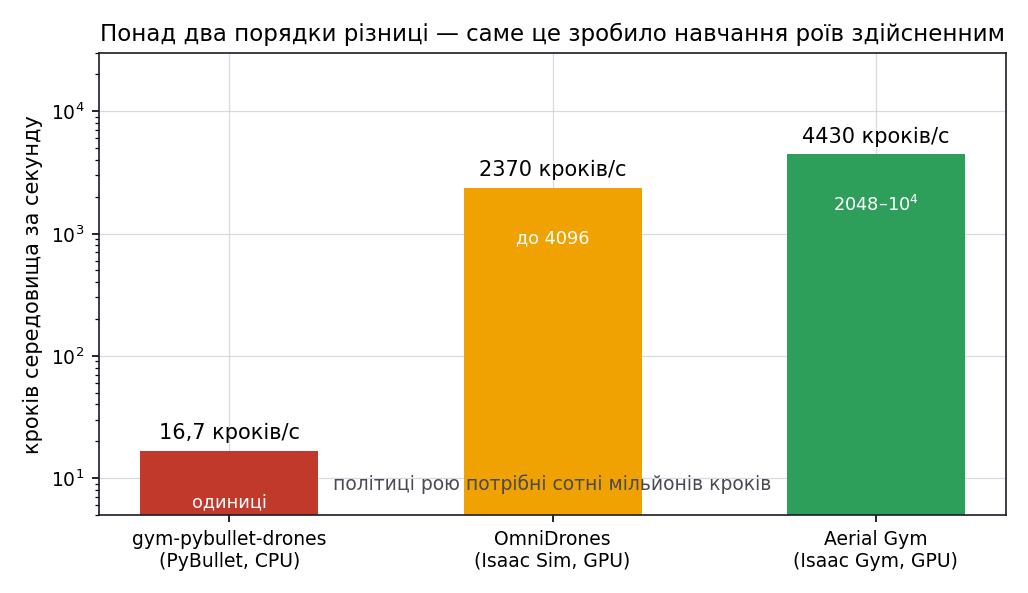
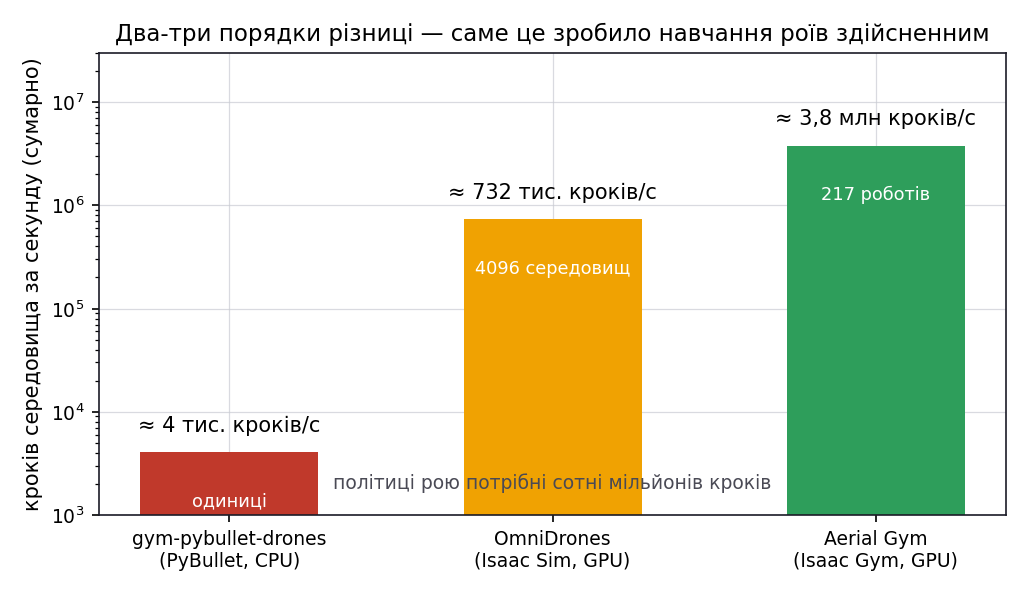
Аудит: числа за першоджерелами, термінологія, застарілий API
Пропускна здатність симуляторів — усі три числа були хибні. За Panerati
та ін. 2021 (табл. II) gym-pybullet-drones дає 16,8× реального часу при
фізиці 240 Гц, тобто ≈ 4 тис. кроків/с, а не «16,7 кроків/с»; OmniDrones
за власною табл. III — 196–732 тис. FPS, а не 1404–2370; Aerial Gym —
до 3,8 млн кроків/с сумарно, а не 4430. Виправлено таблицю, рисунок
m10-simulators і конспект лектора.

Марсохід (модуль 04) — жодне число таблиці цінностей не випливало з MDP
на рисунку. Розв'язано ітерацією за значеннями: V* = (4,10; 6,20; 10,00),
рівноймовірна політика — (−0,44; 0,37; 4,67). Заразом з'явилося числове
обґрунтування переходу при γ = 0,3: −0,93 проти нуля.

Модуль 05 — твердження «справедливість не пов'язана з Парето-оптимальністю
в жодному напрямку» хибне: за додатних віддач Парето-домінуюча політика
має більший добуток, тож максимум F лежить на межі Парето.

Модуль 07 — коефіцієнти 10,0·dt і 5,0 порівнювалися напрямки, хоча мають
різні одиниці. Тепер порівняння за секунду польоту.

Модуль 10 — код на застарілому gym із 4-кортежем step переведено на
Gymnasium (5-кортеж), як у лабораторних; додано визначення actions.

Термінологія: «відомий» → «ведений» (калька з рос. «ведомый»), «складальний
замок» → «карданний замок», «правило великого пальця» → «емпіричне правило»,
«крокова характеристика» → «перехідна», armed/disarmed → «мотори
заблоковані/розблоковані», micro–macro і hypernetwork отримали українські
відповідники.
[…]

diff --git a/lectures/07.md b/lectures/07.md
@@ -212,7 +212,7 @@ $$r_i^{(t)} = -\alpha_{\rm pos}\lVert p_i\rVert - \alpha_{\rm col}\mathbb{1}_{\r
 | $-\alpha_{f}\lVert f_i\rVert$ | сумарна тяга — економія енергії | $0{,}05\,dt$ |
 | $+\alpha_{\rm rot}R_{33}$ | утримання горизонту | $1{,}0\,dt$ |
 
-Два спостереження. **Розріджений штраф за зіткнення сам по собі не вчить уникати зіткнень**: сигнал приходить надто пізно й рідко, тому поряд обов'язково стоїть щільний штраф близькості. І вага штрафу близькості **вдвічі більша** за вагу самої події зіткнення — рій вчать тримати дистанцію, а не виживати після контакту.
+Два спостереження. **Розріджений штраф за зіткнення сам по собі не вчить уникати зіткнень**: сигнал приходить надто пізно й рідко, тому поряд обов'язково стоїть щільний штраф близькості. Порівнювати коефіцієнти 10,0 і 5,0 навпростець не можна: перший множиться на $dt$ і нараховується щокроку, другий — разова подія. За секунду польоту впритул до сусіда набігає $10{,}0 \cdot 1{,}0 = 10$, тобто вдвічі більше, ніж коштує одне зіткнення. Рій вчать тримати дистанцію, а не виживати після контакту.
 
 ### Абляція кодувальників сусідів
 
@@ -338,7 +338,7 @@ $$r_i^{(t)} = -\alpha_{\rm pos}\lVert p_i\rVert - \alpha_{\rm col}\mathbb{1}_{\r
 </Figure>
 
 
-Умова коректності називається **IGM** (*individual-global-max*): максимум централізованої оцінки має досягатися тоді й лише тоді, коли максимальна кожна індивідуальна утилітність. Тільки за неї децентралізоване виконання дає той самий результат, що й централізоване.
+Умова коректності називається **IGM** (*individual-global-max*): максимум централізованої оцінки має досягатися тоді й лише тоді, коли максимізовано кожну індивідуальну утилітність. Тільки за неї децентралізоване виконання дає той самий результат, що й централізоване.
 
 ### VDN: лінійна декомпозиція
 
@@ -370,7 +370,7 @@ $$\frac{\partial\, Q(h,z,a;\theta)}{\partial\, Q(h_i,a_i;\theta_i)} \;\ge\; 0 \q
 
 Монотонності досить для IGM: якщо агрегація не спадає за жодним аргументом, зростання власної утилітності ніколи не зменшує спільної оцінки. Лінійність VDN — **окремий випадок** монотонності.
 
-Монотонність забезпечують просто: усі ваги, крізь які проходять утилітності, роблять невід'ємними. Самі ваги видає окрема **hypernetwork**, що приймає централізовану інформацію: повний стан сцени, карту перешкод, положення всіх апаратів.
+Монотонність забезпечують просто: усі ваги, крізь які проходять утилітності, роблять невід'ємними. Самі ваги видає окрема гіпермережа (*hypernetwork*), що приймає централізовану інформацію: повний стан сцени, карту перешкод, положення всіх апаратів.
 
 ### Що саме вивчає змішувальна мережа
 
@@ -410,7 +410,7 @@ $$\frac{\partial\, Q(h,z,a;\theta)}{\partial\, Q(h_i,a_i;\theta_i)} \;\ge\; 0 \q
 | Обидві | лишатися в робочій зоні | експоненційний штраф за вихід за межі |
 | Обидві | не стикатися | сталий штраф за порушення фізичних меж |
 
-Реальний політ: 6 Crazyflie 2.1 — 3 розвідники, 2 переслідувачі, 1 утікач; локалізація UWB з 8 якорями, 3 конуси як перешкоди. Середня мінімальна відстань до цілі 0,4983 м проти 0,4616 м у симуляції.
+Реальний політ: 6 Crazyflie 2.1 — 3 розвідники, 2 переслідувачі, 1 утікач; локалізація UWB з 8 якорями, 3 конуси як перешкоди. Середня мінімальна відстань до цілі 0,50 м проти 0,46 м у симуляції.
 
 ## Частина 5 · Межі навчання: тридцять дронів без жодного RL
 
@@ -458,11 +458,11 @@ $$VO^{\tau}_{A|B}=\{\,v \;:\; \exists\, t\in[0,\tau],\;\; t\,v \in D(p_B-p_A,\; 
 
 | **Симулятор** | **Основа** | **Паралельних середовищ** | **Пропускна здатність** |
 |---|---|---|---|
-| [gym-pybullet-drones](https://github.com/utiasDSL/gym-pybullet-drones) | PyBullet, CPU | одиниці | ≈ 16,7 кроків/с |
-| [OmniDrones](https://omnidrones.readthedocs.io/) | Isaac Sim, GPU | до 4096 | 1404–2370 кроків/с |
-| [Aerial Gym](https://github.com/ntnu-arl/aerial_gym_simulator) | Isaac Gym, GPU | $2048$–$10^4$ | ≈ 4430 кроків/с |
+| [gym-pybullet-drones](https://github.com/utiasDSL/gym-pybullet-drones) | PyBullet, CPU | одиниці | ≈ 4 тис. кроків фізики/с (16,8× реального часу на ноутбуці) |
+| [OmniDrones](https://omnidrones.readthedocs.io/) | Isaac Sim, GPU | 1024–4096 | 196–732 тис. кроків/с (один агент), 115–310 тис. (четверо) |
+| [Aerial Gym](https://github.com/ntnu-arl/aerial_gym_simulator) | Isaac Gym, GPU | до 217 роботів у середовищі | до 3,8 млн кроків/с сумарно |
 
-Різниця між першим і третім рядками — **понад два порядки**. Саме вона, а не нові алгоритми, зробила навчання роєвих політик здійсненним: те, що на CPU рахувалося б місяцями, на GPU займає години.
+Різниця між CPU і GPU — **два-три порядки**. Саме вона, а не нові алгоритми, зробила навчання роєвих політик здійсненним: те, що на CPU рахувалося б місяцями, на GPU займає години. Числа мають сенс лише разом із конфігурацією: у GPU-рядках це сумарна пропускна здатність усіх паралельних середовищ, а не швидкість одного.
 
 OmniDrones додатково містить прямі порівняння MAPPO, HAPPO, MADDPG і QMIX на одних і тих самих задачах рою.
 
@@ -471,7 +471,7 @@ OmniDrones додатково містить прямі порівняння MAP
 | **Параметр** | **Значення** |
 |---|---|
 | Максимальний рій | **49 апаратів** одночасно |
-| Апарат | 92 мм по діагоналі, 27 г, ARM 168 МГц |
+| Апарат | 92 мм по діагоналі, 27 г без надбудов, ARM 168 МГц |
 | Радіоканал | три USB-передавачі 2,4 ГГц, кожен апарат постійно закріплений за одним із трьох |
 | Середня похибка позиціювання | менше 2 см |
 | Затримка системи для рою з 49 апаратів | 26 мс |

diff --git a/lectures/09.md b/lectures/09.md
@@ -49,7 +49,7 @@ outline: [2, 3]
 | **Силової установки** | відмова мотора, зламаний або розбалансований гвинт, збій регулятора обертів, просідання батареї | втрата тяги й моменту, часто необоротна |
 | **Зв'язку** | втрата сигналу з пульта, втрата зв'язку з наземною станцією, втрата сусіда в рої | апарат лишається без завдання або рій розпадається |
 
-Найпідступніший клас — **сенсорні**: апарат фізично справний, і саме тому продовжує виконувати команди, побудовані на хибних даних. Відмова мотора видно одразу; дрейф барометра на 0,9 м виглядає як нормальний політ.
+Найпідступніший клас — **сенсорні**: апарат фізично справний, і саме тому продовжує виконувати команди, побудовані на хибних даних. Відмову мотора видно одразу; дрейф барометра на 0,9 м виглядає як нормальний політ.
 
 ## Частина 2 · Виявлення відмови за нев'язкою
 
@@ -175,7 +175,7 @@ $$\eta_i \in [0,\;1]$$
 Найпростіше правило — «напруга нижча за поріг довше кількох секунд, отже заряд низький». Друге — рахувати залишкову ємність інтегруванням струму. **Обидва мають вади**, видні на рисунку.
 
 - **Напруга пов'язана зі станом розряду нелінійно**: похибка вимірювання ±30 мВ у середині кривої дає невизначеність заряду в десятки відсотків.
-- **Підрахунок ємності інтегруванням струму — процес розімкнений**: мале зміщення в вимірюванні струму накопичується в помилку, що росте з часом польоту.
+- **Підрахунок ємності інтегруванням струму — процес розімкнений**: мале зміщення у вимірюванні струму накопичується в помилку, що росте з часом польоту.
 
 Тому вводять третій показник — **стан заряду** (*state of charge*, SoC) — і оцінюють його фільтром разом із внутрішнім опором батареї.
 
@@ -240,8 +240,8 @@ $$S_{k+1} = S_k - \frac{I_k\,T_s}{Q_{\max}}$$
 
 | **Стан** | **Що означає** | **Куди може перейти** |
 |---|---|---|
-| Роззброєний | мотори заблоковані | у «озброєний» за командою і пройденим чек-листом |
-| Озброєний | мотори обертаються, апарат на землі | у «зліт» або назад у «роззброєний» |
+| Мотори заблоковані | мотори заблоковані | у «озброєний» за командою і пройденим чек-листом |
+| Мотори розблоковані (армування) | мотори обертаються, апарат на землі | у «зліт» або назад у «роззброєний» |
 | Політ за завданням | виконує місію | у «зависання», «повернення», «degraded» |
 | Зависання | утримує точку | у «політ», «повернення», «посадка» |
 | Повернення на базу | летить за збереженим маршрутом | у «посадка» |
@@ -259,7 +259,7 @@ $$S_{k+1} = S_k - \frac{I_k\,T_s}{Q_{\max}}$$
 Автомат станів стоїть **над** цим контуром: він не втручається в керування рухом, а перемикає, звідки береться завдання. Саме тому failsafe можна перевірити окремо від польотної динаміки.
 
 
-<Flow :nodes="[&quot;Озброєний на землі&quot;, &quot;Політ за завданням&quot;, &quot;Деградований режим після відмови&quot;, &quot;Керована посадка&quot;]" />
+<Flow :nodes="[&quot;Мотори розблоковані (армування) на землі&quot;, &quot;Політ за завданням&quot;, &quot;Деградований режим після відмови&quot;, &quot;Керована посадка&quot;]" />
 
 
 Події бувають **ручні** (команда оператора, перемикач режиму) і **автоматичні** (спрацював поріг, вичерпано заряд, виявлено відмову). Умови переходу мають бути записані явно: «перехід у degraded mode, якщо $\eta_i < 0{,}7$ довше 0,5 с».

diff --git a/lectures/01.md b/lectures/01.md
@@ -236,7 +236,7 @@ $$o_i = h\big(x_i,\ \{x_j : j \in \mathcal{N}_i\}\big), \qquad \mathcal{N}_i = \
 - **Інженерна перевага**: не потрібні ані адресація, ані синхронізація, ані спільна пам'ять.
 - **Ціна**: слід має жити рівно стільки, скільки триває задача. Надто стійкий слід консервує застарілі рішення, надто швидкоплинний не встигає накопичитися.
 
-### Micro–macro problem
+### Проблема мікро → макро (*micro–macro problem*)
 
 Центральна проблема проєктування рою: програмувати можна лише окремого робота (мікрорівень), а специфікується поведінка всього рою (макрорівень).
 
@@ -331,7 +331,7 @@ $$\{\pi_i\}_{i=1}^{N} \longmapsto B_{\text{macro}}$$
 - **Підводні рої** — робота там, де радіозв'язок практично недоступний, а отже топологія зв'язку принципово інша.
 - **Рої літаючих апаратів** — найдинамічніший напрям; типова дослідницька платформа — Crazyflie.
 
-**Стан справ із дронами.** Апарати вже комерціалізовані й дуже перспективні для дистанційного зондування. Стримує їх головно **відсутність правової рамки, яка дозволяла б автономний груповий політ**, а не технічні обмеження.
+**Стан справ із дронами.** Апарати вже комерціалізовані й дуже перспективні для дистанційного зондування. Стримує їх головно **відсутність нормативної бази, яка дозволяла б автономний груповий політ**, а не технічні обмеження.
 
 ## Частина 4 · Масштаб і його ціна
 
@@ -402,7 +402,7 @@ R= 55.0 m  edges= 36  lambda_2=1.8604
 </Figure>
 
 
-За $R = 35$ м апарат 4 лишається без сусідів, $\lambda_2 = 0$, рій розпадається на компоненти. За $R = 55$ м граф зв'язний, $\lambda_2 = 1{,}86$. Це та сама величина, якою в Модулі 03 оцінюють швидкість збіжності консенсусу.
+За $R = 35$ м апарат 4 лишається без сусідів, $\lambda_2 = 0$, рій розпадається на компоненти. За $R = 55$ м граф зв'язний, $\lambda_2 = 1{,}86$. Це та сама величина, якою у Модулі 02 оцінюють швидкість збіжності консенсусу.
 
 <ConnectivityLab />
 
@@ -524,7 +524,7 @@ R= 55.0 m  edges= 36  lambda_2=1.8604
 - Рій — це **замкнений контур** від місії до колективної поведінки, у якому жоден блок не бачить систему цілком.
 - Рій відрізняється від групи апаратів не кількістю, а **джерелом рішення**: кожен апарат вирішує сам за локальними даними.
 - П'ять властивостей — стійкість, гнучкість, масштабованість, адаптивність, відмовостійкість — **не виникають автоматично**.
-- **Micro–macro problem** лишається головною відкритою проблемою: програмуємо мікрорівень, специфікуємо макрорівень.
+- **Проблема мікро → макро (*micro–macro problem*)** лишається головною відкритою проблемою: програмуємо мікрорівень, специфікуємо макрорівень.
 - Масштабованість забезпечує **обмеження радіуса взаємодії**, а не потужніше залізо: $kN/2$ замість $N(N-1)/2$.
 - Реалістична шкала: Swarm-bots — 20 апаратів, Kilobot — тисяча, ARGoS — симуляція до 10 000.
 

diff --git a/lectures/04.md b/lectures/04.md
@@ -158,12 +158,12 @@ MDP марсохода: стани, ймовірності переходів і
 
 | **Величина при** $\gamma = 0{,}95$ | **Старт** | **Точка A** | **Точка B** |
 |---|---|---|---|
-| Цінність рівноймовірної політики | 2,99 | 7,35 | 10 |
-| Оптимальна цінність $V^*$ | 5,98 | 7,35 | 10 |
+| Цінність рівноймовірної політики | −0,44 | 0,37 | 4,67 |
+| Оптимальна цінність $V^*$ | 4,10 | 6,20 | 10,00 |
 
-Оптимальна політика при $\gamma = 0{,}95$ — рухатися ліворуч зі старту й далі праворуч: довгий шлях коштує кількох $-1$, але уникає п'ятдесятивідсоткового ризику втратити апарат.
+Оптимальна політика при $\gamma = 0{,}95$ — рухатися ліворуч зі старту й далі праворуч: $Q(\text{Старт},\text{ліворуч}) = 4{,}10$ проти $Q(\text{Старт},\text{праворуч}) = 0$. Довгий шлях коштує кількох $-1$, але уникає п'ятдесятивідсоткового ризику втратити апарат.
 
-При $\gamma = 0{,}3$ довгий маршрут знецінюється настільки, що оптимальним стає ризикований кидок праворуч. **Той самий апарат, та сама фізика, інша ціль навчання — інша поведінка.** Це найдешевша ілюстрація того, чому $\gamma$ не є параметром оптимізатора.
+При $\gamma = 0{,}3$ віддалена винагорода знецінюється настільки, що довгий маршрут дає вже $-0{,}93$ проти нуля за ризикований кидок праворуч, — і оптимальною стає саме ризикована дія. **Той самий апарат, та сама фізика, інша ціль навчання — інша поведінка.** Це найдешевша ілюстрація того, чому $\gamma$ не є параметром оптимізатора.
 
 ## Частина 2 · Наскрізний приклад: Crazyflie 2.1
 
@@ -176,7 +176,7 @@ MDP марсохода: стани, ймовірності переходів і
 | Максимальна тяга (4 мотори) | 60,8 г-сили = 0,596 Н, тобто 2,25 ваги |
 | Тяга при висінні | 27 / 60,8 = **0,44 від максимуму** |
 | Головний мікроконтролер | STM32F405, Cortex-M4, 168 МГц, 192 КБ ОЗП |
-| Час польоту | близько 7 хв |
+| Час польоту | близько 6 хв |
 
 Запас у 1,75 раза й визначає, наскільки різко апарат може маневрувати. Документація: [Bitcraze Crazyflie 2.1](https://www.bitcraze.io/products/crazyflie-2-1/).
 
@@ -211,7 +211,7 @@ MDP марсохода: стани, ймовірності переходів і
 | Кутові швидкості $p, q, r$ | 3 | рад/с | +0,11, −0,07, +0,02 |
 | **Разом** | **9** | | |
 
-Політика керує **одним числом** — нормованою колективною тягою $u \in [0,1]$ на частоті 50 Гц. Кутове положення тримає бортовий PID із прошивки: ми не вчимо дрон літати з нуля, ми вчимо його одному конкретному рішенню.
+Політика керує **одним числом** — нормованою сумарною тягою $u \in [0,1]$ на частоті 50 Гц. Кутове положення тримає бортовий PID із прошивки: ми не вчимо дрон літати з нуля, ми вчимо його одному конкретному рішенню.
 
 Читаємо приклад уголос: апарат на висоті 0,87 м, на 13 см нижче цілі, повільно опускається зі швидкістю 12 см/с. Політика має додати тяги.
 

diff --git a/lectures/03.md b/lectures/03.md
@@ -109,7 +109,7 @@ $$\mathbf{F}_i = -k_{\text{att}}\frac{\mathbf{p}_i - \mathbf{p}_{\text{goal}}}{\
 
 ### Leader–follower: найпростіша архітектура строю
 
-Кожен відомий утримує заданий зсув відносно лідера. Реалізація елементарна, і саме тому архітектура найпоширеніша.
+Кожен ведений утримує заданий зсув відносно лідера. Реалізація елементарна, і саме тому архітектура найпоширеніша.
 
 
 <Figure src="/figs/own/m03-leader-follower.png" alt="Траєкторії лідера й відомого для двох наборів коефіцієнтів">
@@ -260,7 +260,7 @@ $$e_i = x_{i-1} - x_i - \delta, \qquad E_i(s) = T(s)^{\,i-1} E_1(s)$$
 | $T(s)$ | коефіцієнт передачі похибки «попередник — наступний» |
 | $\lVert T \rVert_\infty$ | максимальне за частотою значення цього коефіцієнта |
 
-Рекурсія розкручується у степінь. Якщо $\lVert T \rVert_\infty > 1$, похибка множиться на кожній ланці. У показаній симуляції маневр лідера з піком 1,50 м перетворюється на 2,10 м у шостого відомого — і це лише сім апаратів.
+Рекурсія розкручується у степінь. Якщо $\lVert T \rVert_\infty > 1$, похибка множиться на кожній ланці. У показаній симуляції маневр лідера з піком 1,50 м перетворюється на 2,10 м у шостого веденого — і це лише сім апаратів.
 
 ### Підсилення більше за одиницю неминуче
 
@@ -294,7 +294,7 @@ $$\int_{0}^{\infty} \ln\bigl|T(j\omega)\bigr|\,\frac{d\omega}{\omega^{2}} \ \ge\
 Поширену інтуїцію варто спростувати окремо: **симетричне двонаправлене керування проблему не розв'язує** — підсилення так само зростає з довжиною колони.
 
 
-<Flow :nodes="[&quot;Лідер широкомовно передає свій стан&quot;, &quot;Відомий поєднує похибку до попередника й до лідера&quot;, &quot;Підсилення лишається меншим за одиницю&quot;]" />
+<Flow :nodes="[&quot;Лідер широкомовно передає свій стан&quot;, &quot;Ведений поєднує похибку до попередника й до лідера&quot;, &quot;Підсилення лишається меншим за одиницю&quot;]" />
 
 ## Частина 5 · Жорсткість і метрики
 
@@ -437,7 +437,7 @@ def rmse_rigid(P, Pstar):
 - **Displacement-закон** фіксує форму лише з точністю до перенесення й вимагає спільного курсового репера.
 - **Distance-закон** має нелінійну динаміку, лише локальні гарантії й паразитні дзеркальні рівноваги.
 - **Колона predecessor-following** принципово не масштабується — це доведене обмеження, а не дефект налаштування.
-- **Усі закони** налаштовуються вручну під конкретну геометрію й погано переносяться на змінну кількість апаратів і невідомі перешкоди.
+- **Усі закони** налаштовуються вручну під конкретну геометрію й погано переносяться на змінну кількість апаратів і неведені перешкоди.
 
 Саме останній пункт мотивує решту курсу: там, де закон вручну не виводиться, політику навчають.
 

diff --git a/lectures/02.md b/lectures/02.md
@@ -62,7 +62,7 @@ outline: [2, 3]
 | *Earth frame* | нерухома відносно землі | положення, висота, маршрут, задана точка |
 | *Body frame* | у центрі мас апарата | тяга гвинтів, моменти, покази IMU |
 
-Кривина Землі на масштабах польоту рою ігнорується. Обидві системи праві, вісь висоти традиційно спрямована вниз.
+Кривина Землі на масштабах польоту рою ігнорується. Обидві системи праві, вертикальна вісь традиційно спрямована вниз (висота дорівнює $-z$).
 
 ### Нахил і тяга: розрахунок із числами
 
@@ -298,7 +298,7 @@ $$\Delta p = \tfrac{1}{2}\,b\,t^2$$
 | $t$ | час автономного числення, с |
 | $\Delta p$ | накопичена похибка положення, м |
 
-Скромне зміщення $b = 0{,}05$ м/с² дає за 10 с помилку 2,5 м, за 30 с — 22 м, за 60 с — 90 м. Удвічі довше без корекції означає вчетверо гірше положення.
+Скромне зміщення $b = 0{,}05$ м/с² дає за 10 с помилку 2,5 м, за 30 с — 22,5 м, за 60 с — 90 м. Удвічі довше без корекції означає вчетверо гірше положення.
 
 **Для рою наслідок жорсткіший:** у кожного апарата власний дрейф, тому взаємні відстані розпливаються швидше, ніж абсолютні координати кожного.
 
@@ -330,9 +330,9 @@ $$K = \frac{\sigma_{\text{прогн}}^2}{\sigma_{\text{прогн}}^2 + \sigma_
 | **Крок** | **Обчислення** | **Результат** |
 |---|---|---|
 | Розбіжність | $11{,}20 - 10{,}00$ | 1,20 м |
-| Підсилення | $0{,}09 / (0{,}09 + 0{,}64)$ | 0,12 |
+| Підсилення | $0{,}09 / (0{,}09 + 0{,}64)$ | 0,123 |
 | Нова оцінка | $10{,}00 + 0{,}123 \cdot 1{,}20$ | 10,15 м |
-| Нова невизначеність | $0{,}30 \cdot \sqrt{1 - 0{,}12}$ | 0,28 м |
+| Нова невизначеність | $0{,}30 \cdot \sqrt{1 - 0{,}123}$ | 0,28 м |
 
 
 <Figure src="/figs/own/m02-kalman.png" alt="Один крок корекції фільтра Калмана як три розподіли">
@@ -416,7 +416,7 @@ $$\|\delta(t)\| \le \|\delta(0)\|\,e^{-\lambda_2 t}$$
 | Кільце | 5 | 1,382 | 3,618 | 3,3 с |
 | Повний | 10 | 5,000 | 5,000 | 0,9 с |
 
-Найдешевша інженерна дія в усій темі — **замкнути ланцюг у кільце**: одне додаткове ребро піднімає $\lambda_2$ з 0,382 до 1,382, а межа часу падає з 12,1 с до 3,3 с. Зірка й кільце коштують однаково, але кільце і швидше, і не має єдиної точки відмови.
+Найдешевша інженерна дія в усій темі — **замкнути ланцюг у кільце**: одне додаткове ребро піднімає $\lambda_2$ з 0,382 до 1,382, а межа часу падає з 12,1 с до 3,3 с. Кільце коштує на одне ребро дорожче за зірку, але воно і швидше, і не має єдиної точки відмови.
 
 ### Протокол консенсусу
 

diff --git a/lectures/06.md b/lectures/06.md
@@ -37,11 +37,11 @@ outline: [2, 3]
 - спроєктувати вектор спостереження й вектор дії для заданої задачі БПЛА;
 - підібрати ваги доданків винагороди за порядком величини й перевірити масштаб термінального штрафу;
 - пояснити, чому політика керує кутовими швидкостями, а не моторами напряму;
-- описати пайплайн sim-to-real і роль доменної рандомізації.
+- описати конвеєр *sim-to-real* і роль доменної рандомізації.
 
 ## Частина 1 · Вибір алгоритму під задачу
 
-Дерево вибору має три корені: планування шляху, навігація й керування. Вирішальний критерій на нижньому рівні — **тип простору дій**: дискретний набір команд чи неперервні керувальні сигнали.
+Дерево вибору має три гілки: планування шляху, навігація й керування. Вирішальний критерій на нижньому рівні — **тип простору дій**: дискретний набір команд чи неперервні керувальні сигнали.
 
 | **Група задач** | **Задача** | **Умова** | **Придатні алгоритми** |
 |---|---|---|---|
@@ -275,7 +275,7 @@ r(щойно стартував) = -0.57
 
 ## Частина 4 · Порівняння алгоритмів у польоті
 
-Пряме порівняння on-policy методів (SARSA, PPO, TRPO) з off-policy (Q-learning, DQN, DDPG) за кроковою характеристикою по кожній команді орієнтації. Цільова кутова швидкість — $\Omega^{*} = [2{,}20;\ -5{,}14;\ -1{,}81]$ рад/с.
+Пряме порівняння on-policy методів (SARSA, PPO, TRPO) з off-policy (Q-learning, DQN, DDPG) за перехідною характеристикою по кожній команді орієнтації. Цільова кутова швидкість — $\Omega^{*} = [2{,}20;\ -5{,}14;\ -1{,}81]$ рад/с.
 
 
 <Figure src="/figs/own/m06-rl-vs-pid.png" alt="Перехідна характеристика навчених політик проти ПІД-регулятора">
@@ -335,7 +335,7 @@ r(щойно стартував) = -0.57
 | Шум оцінки позиції | $\sigma$ = 2 – 10 см | 2 см — оптичний захват, 10 см — UWB |
 | Зовнішнє збурення | до 0,15 Н випадково | протяг, обдув від сусіда |
 
-**Правило великого пальця:** якщо політика тримається на всьому діапазоні рандомізації в симуляторі, реальний дрон опиняється десь усередині цього діапазону — і летить без донавчання.
+**Емпіричне правило:** якщо політика тримається на всьому діапазоні рандомізації в симуляторі, реальний дрон опиняється десь усередині цього діапазону — і летить без донавчання.
 
 ### Порядок перенесення на борт
 

diff --git a/lectures/08.md b/lectures/08.md
@@ -37,7 +37,7 @@ outline: [2, 3]
 - обчислити кількість компонент зв'язності та відносну зв'язність рою й відрізнити керований поділ від фрагментації;
 - спроєктувати вектор спостереження й винагороду для задачі покриття;
 - назвати сім метрик місії покриття з числовими порогами;
-- за логами розпізнати п'ять типових поломок роєвої політики.
+- за логами розпізнати шість типових поломок роєвої політики.
 
 ## Частина 1 · Що рій уже вміє
 
@@ -280,7 +280,7 @@ $$C(t)=\frac{\operatorname{rank}\big(L(t)\big)}{n-1}\in[0,1]$$
 | 6001 | 120,02 | ще в тій самій клітинці | 1 | 0,00 | $0{,}3\times1/6 = 0{,}05$ | **+0,05** |
 | 6002 | 120,04 | летить далі, клітинка стара | 0 | 0,00 | 0,00 | **0,00** |
 
-До цієї суми на кожному кроці додаються штрафи за різкість керування $-0{,}101$ і $-2{,}0\times$(близькість), якщо сусід ближче 1,0 м.
+До цієї суми на кожному кроці додаються штрафи за різкість керування $-0{,}10$ (сума за кутову швидкість, нахил і ривок дії) і $-2{,}0\times$(близькість), якщо сусід ближче 1,0 м.
 
 Підсумок за епізод при хорошому польоті: рій відкриває 360 клітинок × 0,7 особистої частини ≈ **252 очка**, розподілених між шістьма, плюс спільна частина. Штрафи за близькість забирають 5–8 % — це нормальна ціна безпеки.
 
@@ -408,7 +408,7 @@ for step in range(int(T / DT)):
 | **Рівень** | **Що вирішує** | **Темп** | **Хто виконує** |
 |---|---|---|---|
 | Планування місії | поділ на стадії, точки маршруту, повернення на зарядку | хвилини, часто офлайн | наземна станція або оператор |
-| Розподіл задач | яка зона чиї́й апарат | секунди | рій, розподілено |
+| Розподіл задач | який апарат відповідає за яку зону | секунди | рій, розподілено |
 | Локальне рішення | куди летіти наступні 1–2 с | 5–20 Гц | політика на борту |
 | Керування рухом | тяга й кутові швидкості | 50–500 Гц | бортовий контролер |
 

diff --git a/lectures/10.md b/lectures/10.md
@@ -31,7 +31,7 @@ outline: [2, 3]
 Після лекції ви зможете:
 
 - описати мінімальний інтерфейс багатоагентного середовища й прочитати опис простору дій і спостережень;
-- реалізувати мережу з `parameter sharing` і пояснити, коли це припущення коректне;
+- реалізувати мережу з *parameter sharing* і пояснити, коли це припущення коректне;
 - перетворити IDQN на VDN однією операцією й пояснити, що саме змінилося;
 - скласти чек-лист відтворюваного експерименту з дев'яти пунктів;
 - пояснити, чому одна крива з одного запуску не є результатом;
@@ -45,22 +45,23 @@ outline: [2, 3]
 
 ```python
 import lbforaging
-import gym
+import gymnasium as gym
 
-env = gym.make("Foraging-8x8-2p-1f-v2")
+env = gym.make("Foraging-8x8-2p-1f-v3")
 
 env.observation_space
 # >> Tuple(Box(..., 15), Box(..., 15))
 env.action_space
 # >> Tuple(Discrete(6), Discrete(6))
 
-observations = env.reset()
-next_observations, rewards, terminal_signal, _ = env.step(actions)
+observations, info = env.reset(seed=0)
+actions = env.action_space.sample()                     # по одній дії на агента
+observations, rewards, terminated, truncated, info = env.step(actions)
 ```
 
 | **Елемент** | **Значення в прикладі** |
 |---|---|
-| Задача | `Foraging-8x8-2p-1f-v2` — сітка 8×8, 2 агенти, 1 предмет, версія v2 |
+| Задача | `Foraging-8x8-2p-1f-v3` — сітка 8×8, 2 агенти, 1 предмет, версія v3 |
 | Спостереження | вектор із **15** чисел на агента, тип `Box` |
 | Дії | `Discrete(6)` = 4 рухи + `collect` + `noop` |
 | Повернення `step()` | 4 елементи: спостереження, винагороди, прапорець термінації, службовий словник |
